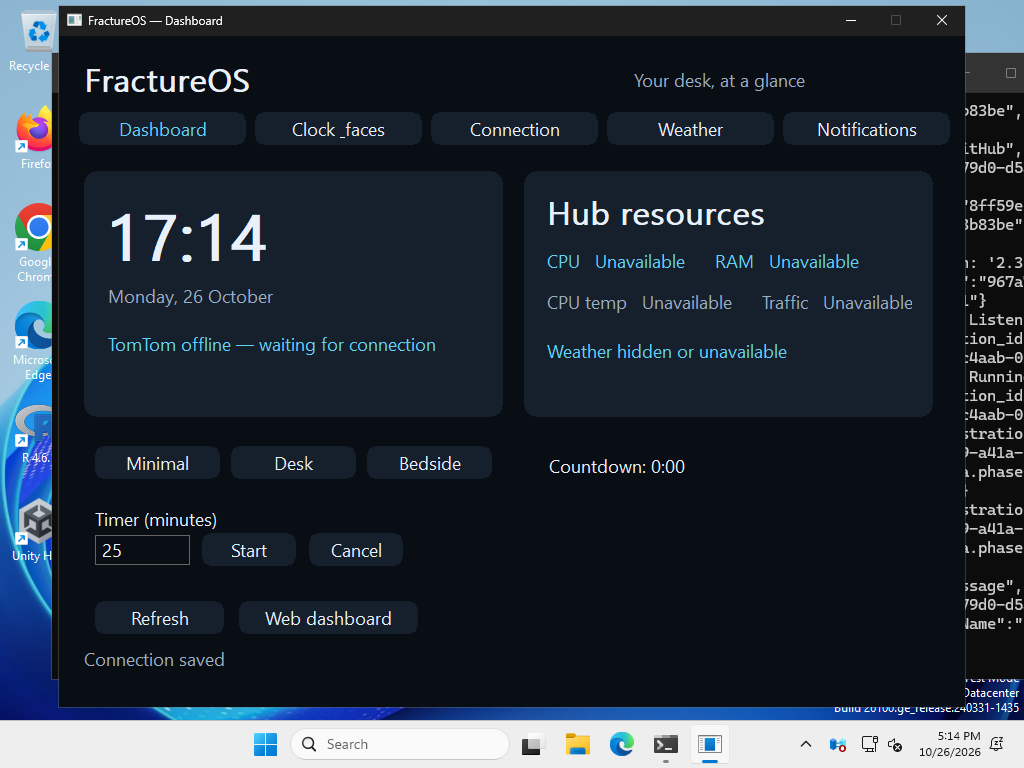
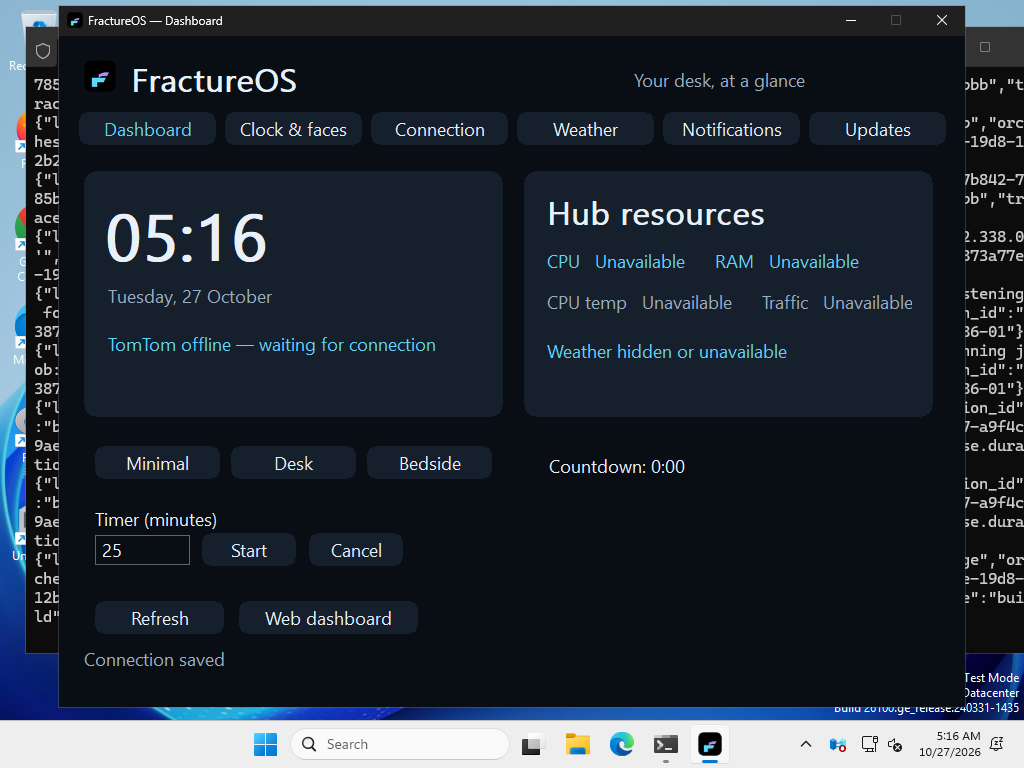
Preserve release installers during updater acceptance and record reconnect handoff

diff --git a/docs/NEXT-DEVICE-APPLY.md b/docs/NEXT-DEVICE-APPLY.md
@@ -1,0 +1,25 @@
+# Reconnect handoff — v0.1.10
+
+Owner unplugged the TomTom on 2026-10-27 and explicitly deferred applying changes until returning. Do not automatically deploy on USB reconnection alone.
+
+## Ready locally
+
+- ARM binary, Go host builds and Linux/Windows release packages in `build/release`.
+- Accepted Windows x64/ARM64 Inno artifacts in `artifacts/windows-v0110-accepted`. Windows run 40454190738 passed native settings, staged update/reopen, retained configuration, tray close and uninstall. ARM64 was built only.
+- Real-device preview captures under `artifacts/manual-v0110`: mixed dock, activity strip, notifications with artwork, supplied lyrics, current/hourly/week weather, media symbols and clock.
+- Tests passed; final app overlays/media timeout exemptions have only host checks since unplugging. Actual Windows UAC/PawnIO sensor data still requires the owner's PC.
+
+## Last observed state
+
+The device was running `/mnt/sdcard/fracture-v3/releases/v0.1.10-preview`. The final deploy attempt `artifacts/deploy-v0110-final` timed out while uploading staging payloads, before activation. The root volume icon was not replaced. Temporary files may remain in a `/tmp/fracture-install-<hex>` directory; inspect and remove only confirmed FractureOS staging files after reconnecting. The old deployer's cleanup timeout prevented its final report from being written; the updated deployer preserves deferred-cleanup evidence.
+
+The locally started `fracture-preview-v0110.service` was explicitly stopped after the unplug message. The installed `fracture-v3.service` was already stopped during preview work. Resume the appropriate hub service when the owner asks to apply.
+
+## When the owner returns and requests application
+
+1. Read current settings/status first; the owner actively tests controls. Preserve their latest profile, theme, brightness, offset and alarm. Do not restore the earlier `before.json` over new choices.
+2. Identify reachability over USB `.115`, with Linux/hub `.105` and the existing TomTom LAN alias `.114`. Inspect current release pointer and any interrupted staging directory. Do not change networking based solely on old assumptions.
+3. Use a fresh private evidence directory because `artifacts/deploy-v0110-final` already exists. Deploy the verified v0.1.10 payload. It backs up `tomtom.ico`, installs the shared FractureOS icon, verifies readbacks and activates the immutable release slot. Do not rewrite a differing immutable v0.1.10 slot; inspect first.
+4. Inspect the final overlay refinements, active player/lyrics staying open, menu returning home, forecast cache offline behavior and current RAM. Preserve timer/watch state if the owner has started one since the previous session.
+5. Install/activate the matching Linux host build, start `fracture-v3.service`, and check companion reconnect. There should be one hub listener on `.105:47831` and no leftover preview service.
+6. Mark W07/W08 complete only after the device checks. Keep W06 open until the Windows owner verifies Authorize sensor with their installed PawnIO driver.

diff --git a/README.md b/README.md
@@ -4,7 +4,7 @@ A quiet, customizable clock for a TomTom ONE (v6), with a C device app and Go Li
 
 The original nine faces are now editable FractureOS assets. The blue Nunito face restores its original proportions with a centered date and live seconds, optional larger stacked digits, optional horizontal **HH : MM**, a blinking colon, and an hour-only behavior: **10:00 shows 10 throughout that minute; 10:01 returns to the full time** in either layout. The clock geometry adapts to a compact bottom dock; date and seconds are drawn at their final text size instead of shrinking a completed image. Digits have a configurable 0–2 pixel weight (default 1). The old information sidebar and its application dependencies are absent from the new renderer. Only the selected face's 170 KB digit atlas is resident.
 
-![Clock with CPU temperature](docs/images/temperature-clock.png)
+![Notification card covering the clock dock](docs/images/notification-card.png)
 
 The interface uses pure-black backgrounds, rounded menu highlights, simple metric/timer symbols and brief 180 ms selection transitions. The owner’s SF Compact font is used locally on their TomTom; public packages include an open Nunito text atlas.
 
@@ -123,6 +123,8 @@ Weather runs on the Linux hub, never as an HTTP client on the TomTom. Enable it 
 Open-Meteo current conditions are fetched every 15 minutes while the clock is visible. A small cache prevents refetching when opening/closing menus. The worker exits when disabled, when the device is disconnected, or when weather has no visible clock consumer. Normal conditions stay hidden in unusual-only mode. Thunderstorms, heavy/freezing rain, heavy snow, temperatures at/above 35°C or at/below 0°C, and gusts at/above 60 km/h count as unusual; temperature/wind thresholds are editable. The alternative is **Always**. Stale/missing readings disappear. Weather occupies one small icon/text row; no weather bitmap pack is installed on the TomTom.
 
 Open **Apps → Weather** for current cached conditions. Choose **Hourly** or **7 days**. Tap advances the selected entry and scrolls through four entries at a time; Power switches hourly/week views; hold Power 1.5 seconds to go back. The cache stores 24 hours and seven days, with temperature, weather symbols and available rain probability. Its age is shown, including offline. The device reads its tiny SD cache only while Weather is open, and releases the forecast array when leaving.
+
+![Stored hourly forecast](docs/images/weather-hourly.png) ![Stored seven-day forecast](docs/images/weather-weekly.png)
 
 Data: [Open-Meteo](https://open-meteo.com/) under CC BY 4.0; [API documentation](https://open-meteo.com/en/docs). These are modeled current conditions, not an official emergency warning service. The free endpoint is intended for non-commercial use.
 

diff --git a/TASKS.md b/TASKS.md
@@ -49,7 +49,7 @@ The P-series checkboxes below describe complete target modules. Initial implemen
 - [x] W03 Add configurable 30-second menu inactivity timeout with preview cancellation.
 - [x] W04 Draw Spotify and transport/volume/more icons; add player clock.
 - [x] W05 Add bounded on-demand synchronized/plain lyrics lookup and authenticated lyrics webhook.
-- [x] W06 Correct PawnIO access handling and add an explicitly approved elevated sensor helper.
+- [ ] W06 Correct PawnIO access handling and add an explicitly approved elevated sensor helper. Flow and pinned-module checks implemented and Windows builds passed; actual UAC/temperature acceptance on the owner’s installed driver is pending.
 - [ ] W07 Create one FractureOS vector logo, app/tray/installer resources and web favicon; replace backed-up TomTom icon.
 - [x] W09 Add on-demand cached hourly/7-day Weather app.
 - [x] W10 Add verified one-click app updates in native/web dashboards.
